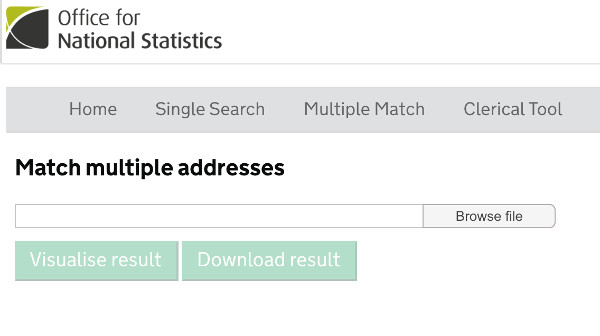
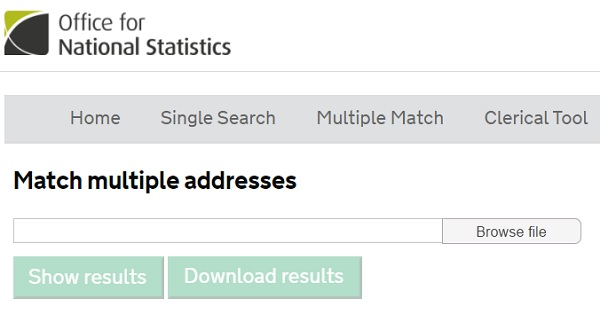
apply  Alistair's changes

diff --git a/demo-ui/app/uk/gov/ons/addressIndex/demoui/views/help.scala.html b/demo-ui/app/uk/gov/ons/addressIndex/demoui/views/help.scala.html
@@ -19,13 +19,13 @@
                             <a href="#introduction">Introduction</a>
                         </li>
                         <li>
-                            <a href="#login">Logging on to Address Index</a>
+                            <a href="#login">Login</a>
                         </li>
                         <li>
                             <a href="#search_single">Search for a Single Address</a>
                         </li>
                         <li>
-                            <a href="#search_multiple">Search for multiple addresses</a>
+                            <a href="#search_multiple">Search for Multiple Addresses</a>
                         </li>
                         <li>
                             <a href="#clerical">Perform an advanced search using the Clerical Tool</a>
@@ -34,7 +34,7 @@
                             <a href="#debug">Debug the ElasticSearch Query</a>
                         </li>
                         <li>
-                            <a href="#notes">Additional Notes</a>
+                            <a href="#notes">Technical Notes</a>
                         </li>
                     </ul>
                 </div>
@@ -43,8 +43,8 @@
                     <h1>Introduction</h1>
                     <p>The Address Index User Interface (UI) provides an address searching and matching service to users on the ONS network. To log in to the service, enter the same username and password used to log into your PC/Laptop.</p>
                     <p>If you are on the ONS network and are unable to access the service, please email <a href="mailto:ai.users@@ons.gov.uk">Address Index</a></p>
-                    <p>To provide access to users outside the ONS network, mainly OGDs, the Address Index service will be accessible through the use of an Application Program Interface (API)</p>
-                    <p>During the Private Beta external users are supplying bulk input files via MoveIt</p>
+                    <p>To provide access to users outside the ONS network, mainly Other Government Departments, the Address Index service will be accessible through the use of an Application Program Interface (API).</p>
+                    <p>During the Private Beta external users are supplying bulk input files via MoveIt.</p>
                 </div>
 
                 <div>
@@ -63,28 +63,32 @@
                     <a name="search_single"></a>
                     <h1>Search for a Single Address</h1>
 
-                    <div>1. From the Address Index home page, click Find an address</div>
+                    <div>1. From the Address Index home page, click Find an address.</div>
                     <img src="@routes.Assets.versioned("/images/help/single_1.jpg").toString">
 
-                    <div>2. Enter an address and click the Search button</div>
+                    <div>2. Enter an address and click the Search button.
+                        Provide as much of the address as possible for best results.
+                        The search is optimised for matching addresses in administrative data, not, for example displaying all the addresses in a given postcode.  </div>
+
                     <img src="@routes.Assets.versioned("/images/help/single_2.jpg").toString">
 
                     <div>3. Once the search button is clicked, the matching engine will process the search query and return the results.</div>
+
                     <img src="@routes.Assets.versioned("/images/help/single_3.jpg").toString">
 
 
                     <ol>
                         <li><strong>Number of addresses found</strong> - The total number of addresses found in the search.</li>
-                        <li><strong>Feedback</strong> - Press to submit a feedback for this particular input</li>
-                        <li><strong>LA | PAF</strong> - Toggle functionality to view either a formatted LA (Local Authority) or PAF (Postal Address Finder) version of the address.</li>
-                        <li><strong>Language</strong> - Language switch between English and Welsh</li>
-                        <li><strong>Matching Score</strong> – Document score comes from the search engine, Building score is a calculated probability that the building is correct, and the unit score is for the sub-building if appropriate </li>
-                        <li><strong>Address</strong> – A formatted matched address. As default, the formatted LA version of the matched address is displayed.</li>
-                        <li><strong>Logical Status Icon</strong> – The logical status of a matched address. A is approved, P is provisional and H is Historical.</li>
-                        <li><strong>UPRN</strong> – Unique Property Reference Number is a unique twelve-digit number assigned to every unit of land and property recorded by the local government.</li>
-                        <li><strong>Classification</strong> - Allow users to view the high level and low level classification of a matched address e.g. High level (Residential, Commercial etc.) and Low Level (Self-Contained Flat, Bank, Restaurant, Shop/Showroom etc.)</li>
-                        <li><strong>Local Authority</strong> – This is the local authority that the matched address is currently assigned to.</li>
-                        <li><strong>Open Map</strong> – Allow users to pinpoint the matched address on a map using AddressBase’s coordinates</li>
+                        <li><strong>Feedback</strong> - Press to submit feedback about this particular address.</li>
+                        <li><strong>LA | PAF</strong> - Toggle to view either a formatted LA (Local Authority) or PAF (Postal Address File) version of the address.</li>
+                        <li><strong>Language</strong> - Toggle between English and Welsh language version of the address (where these exist).</li>
+                        <li><strong>Matching Score</strong> – This score provides an indication of the quality of the match and will be of most interest to expert users. Document score is returned from Elastic Search, Building score is a calculated probability that the building is correct, and the unit score is for the sub-building if appropriate.</li>
+                        <li><strong>Address</strong> – The formatted matched address. By default, the formatted LA version of the matched address is displayed.</li>
+                        <li><strong>Logical Status Icon</strong> – The logical status of a matched address within <a href="https://www.ordnancesurvey.co.uk/business-and-government/help-and-support/products/addressbase-premium.html">AddressBase</a>. A is approved, P is provisional and H is Historical. See AddressBase documentation for details of this classification.</li>
+                        <li><strong>UPRN</strong> – Unique Property Reference Number is a unique twelve-digit number assigned to every unit of land and property recorded by local government.</li>
+                        <li><strong>Classification</strong> - The classification of the matched address e.g. Residential, Commercial, Self-Contained Flat, Shop etc.)</li>
+                        <li><strong>Local Authority</strong> – The local authority that the matched address is currently assigned to.</li>
+                        <li><strong>Open Map</strong> – Display the matched address on a map using AddressBase’s coordinates</li>
                     </ol>
 
                 </div>
@@ -99,9 +103,8 @@
                     <div> 2. Click Choose File to select a file from your computer. </div>
                     <div><i>Note: The selected file must be a CSV (Comma Delimited) format, less than 10MB in size and must have only two columns with headers:  ID and Address. See <a href="@routes.Assets.versioned("/images/help/exsample.csv").toString">Sample file</a></i></div>
                     <img src="@routes.Assets.versioned("/images/help/multiple_2.jpg").toString">
-
                      
-                    <div>3. Once the file is selected from your computer, click "Visualise" button</div>
+                    <div>3. Once the file is selected from your computer, click the "Show" button to view the results on screen.</div>
                     <img src="@routes.Assets.versioned("/images/help/multiple_3.jpg").toString">
 
                     <div>Once the file is uploaded successfully, the matching engine will process the search query and return the results.</div>
@@ -112,18 +115,18 @@
                         <li><strong>ID</strong>
                             – This is the ID that was provided by the user in the input file.</li>
                         <li><strong>Input Address</strong>
-                            – The input address is the address that was uploaded by the user</li>
+                            – The input address is the address that was provided by the user</li>
                         <li><strong>Matched Address</strong> – Address found during matching.</li>
                         <li><strong>UPRN</strong>
-                            – Unique Property Reference Number is a unique twelve-digit number assigned to every unit of land and property recorded by the local government.</li>
-                        <li><strong>Document Score</strong> - Elastic Search score</li>
-                        <li><strong>Building Score</strong> - Custom score for addresses score</li>
-                        <li><strong>Unit Score</strong> - Custom score for addresses with Flats score</li>
+                            – Unique Property Reference Number is a unique twelve-digit number assigned to every unit of land and property recorded by local government.</li>
+                        <li><strong>Document Score</strong> - Match score returned from Elastic Search</li>
+                        <li><strong>Building Score</strong> - Custom score which is is a calculated probability that the building is correct.</li>
+                        <li><strong>Unit Score</strong> - Custom score for the sub-building if appropriate.</li>
                         <li><strong>Rank</strong> - Rank of the address in a list of matched addresses for the same input</li>
-                        <li><strong>Matched?</strong> - Switch that allows to choose which address to download as a .csv file</li>
+                        <li><strong>Matched?</strong> - Allows you to exclude some of the results from the output created by the download link described below.</li>
                     </ul>
 
-                    <div>4. To export results to a .csv file, click Download link at the bottom of the table, or directly press "Download Result" instead of visualising it</div>
+                    <div>4. To export results to a .csv file, click download link at the bottom of the table, or directly press "Download Result" (required for large batches)</div>
 
 
                 </div>
@@ -132,10 +135,10 @@
                     <a name="clerical"></a>
                     <h1>Perform an advanced search using the Clerical Tool</h1>
 
-                    <div>1. From the Address Index home page, click Clerical tool</div>
+                    <div>1. From the Address Index home page, click Clerical tool. This function is intended for expert users and provides the ability to query details of specific fields included in AddressBase.</div>
                     <img src="@routes.Assets.versioned("/images/help/clerical_1.jpg").toString">
 
-                    <div>2. Search an address as you would in <a href="#search_single">Single Search</a>. The result is identical to the one in Single search, the user may click on "Additional Clerical Information" to see more information about tokens and hierarchy.</div>
+                    <div>2. Search an address as you would in <a href="#search_single">Single Search</a>. The result is identical to the one in Single search, the user may click on "Additional Clerical Information" to see more information about individual fields and hierarchies.</div>
 
                     <img src="@routes.Assets.versioned("/images/help/clerical_2.jpg").toString">
                     <img src="@routes.Assets.versioned("/images/help/clerical_3.jpg").toString">
@@ -147,7 +150,7 @@
                     <a name="debug"></a>
                     <h1>Debug the Elastic Search Query</h1>
 
-                    <div>This tool allows data scientists to see the underlying elastic search query</div>
+                    <div>This tool is for expert users and reports the underlying elastic search query</div>
                     <div>1. From the Address Index home page, click Display ES Query</div>
 
                     <img src="@routes.Assets.versioned("/images/help/debug_1.jpg").toString">
@@ -159,15 +162,15 @@
 
                 <div>
                     <a name="notes"></a>
-                    <h1>Additional Notes</h1>
+                    <h1>Technical Notes</h1>
                 <ol>
                     <li><strong>Viewing Site In Welsh</strong> - In Chrome go to Settings, Advanced settings, Languages, if Welsh is not on the list, add it with the Add button. Drag Welsh to the top and click Finish. The UI is now in Welsh mode. Drag Welsh below English to toggle back.</li>
-                    <li><strong>Validation and Address Format</strong> - The only validation done is to check that an address string is supplied (if not get clickable error message). No checks are made as to what address parts are included. Whatever is supplied is processed by the API and if there are no matches there are no matches.  The exception to this is if the input is only a number, it is assumed to be a UPRN and matched accordingly.</li>
+                    <li><strong>Validation and Address Format</strong> - The only validation done on the input string is to check that an non-empty string is supplied. No checks are made as to what address parts are included. Whatever is supplied is processed by the API.  The exception to this is if the input is only a number, it is assumed to be a UPRN and matched accordingly.</li>
                     <li><strong>Bookmarking</strong> - The address string (URL encoded) and other parameters are echoed to the URL bar so you can bookmark a single search or clerical tool result and send it to someone else. It will recreate the page as saved such as expanding the chosen address in the clerical tool. Note that the PAF / LA toggle is done on the client so is not bookmarkable.</li>
                     <li><strong>Paging</strong> - The maximum number of pages is 100 or the number of results / number of results per page. In the UI the number of results per page is set to 10 and cannot be overridden in the URL. Note that as well as next / previous buttons you can jump to a page number using the page= query string parameter in the URL.</li>
-                    <li><strong>Google Maps</strong> - Note that this takes you to the exact Lat / Lon from Addressbase rather than where Google thinks the marker should go.</li>
+                    <li><strong>Google Maps</strong> - Note that this takes you to the exact latitude / longitude from AddressBase rather than where Google thinks the marker should go.</li>
                     <li><strong>Epochs</strong> - A major new version of Addressbase is supplied every 6 weeks. These versions are called Epochs. The current Epoch number is shown the top right of the screen, along with the version number of the code which is also a link to GitHub. </li>
-                    <li><strong>Internet Explorer</strong> - This site works on all modern browsers. However, Internet Explorer should have Compatability View off (right click cog icon top right to show the menu bar, Tools, Compatability View Settings, ensure Display Intranet Sites In Compatibility Mode is unticked). </li>
+                    <li><strong>Internet Explorer</strong> - This site works on all modern browsers. However, Internet Explorer should have Compatability View off (right click cog icon top right to show the menu bar: Tools > Compatability View Settings > ensure Display Intranet Sites In Compatibility Mode is unticked). </li>
                 </ol>
                 </div>
 
